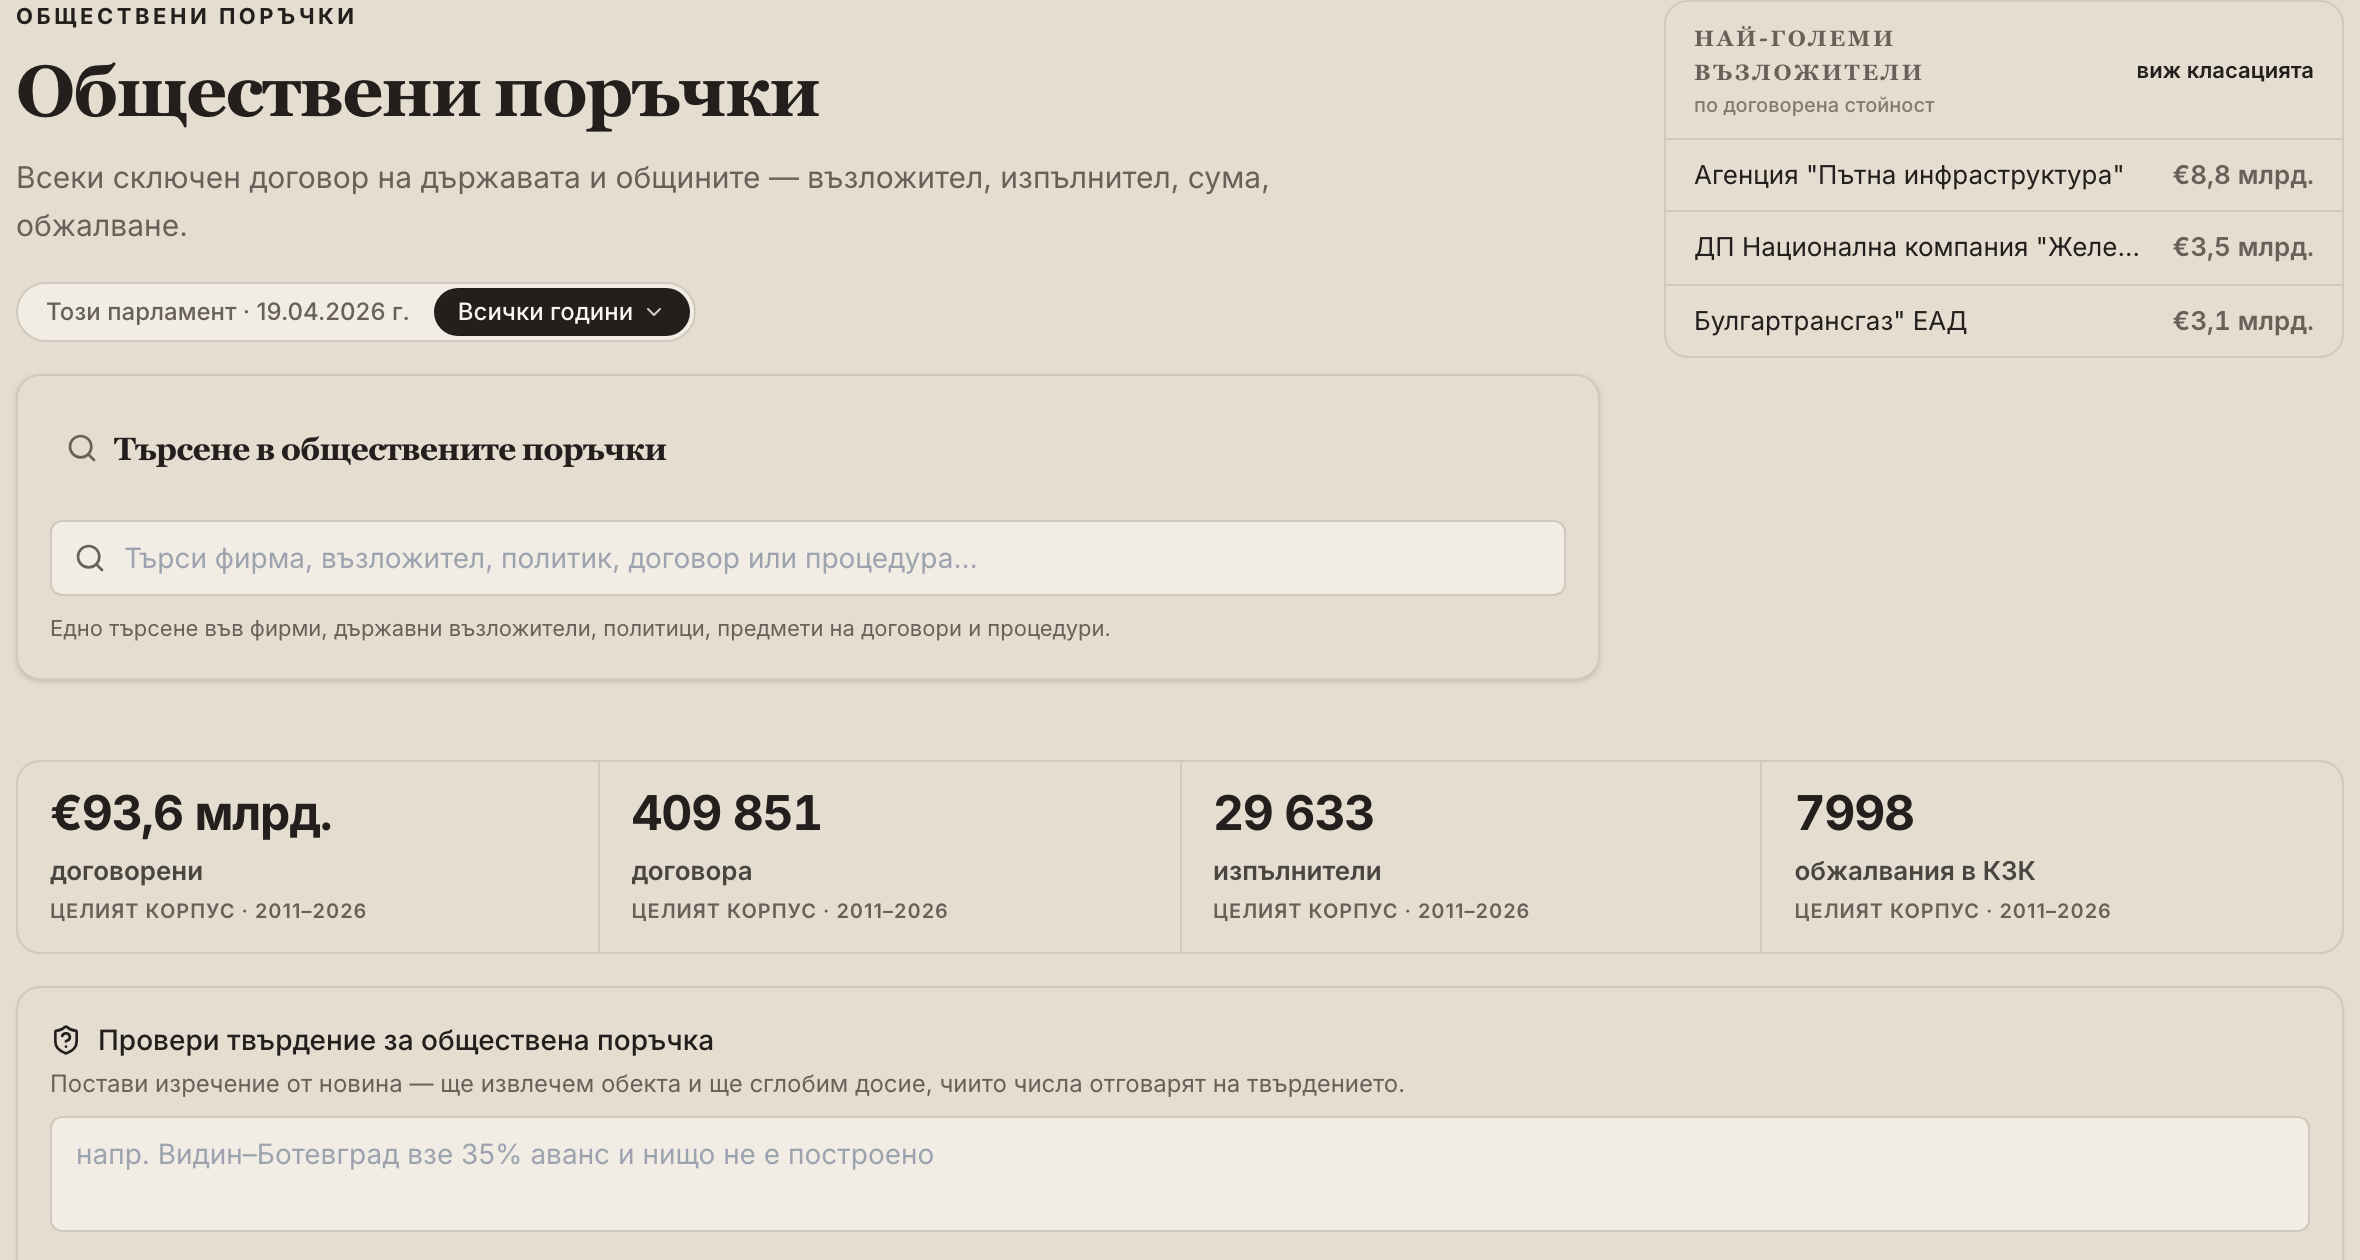
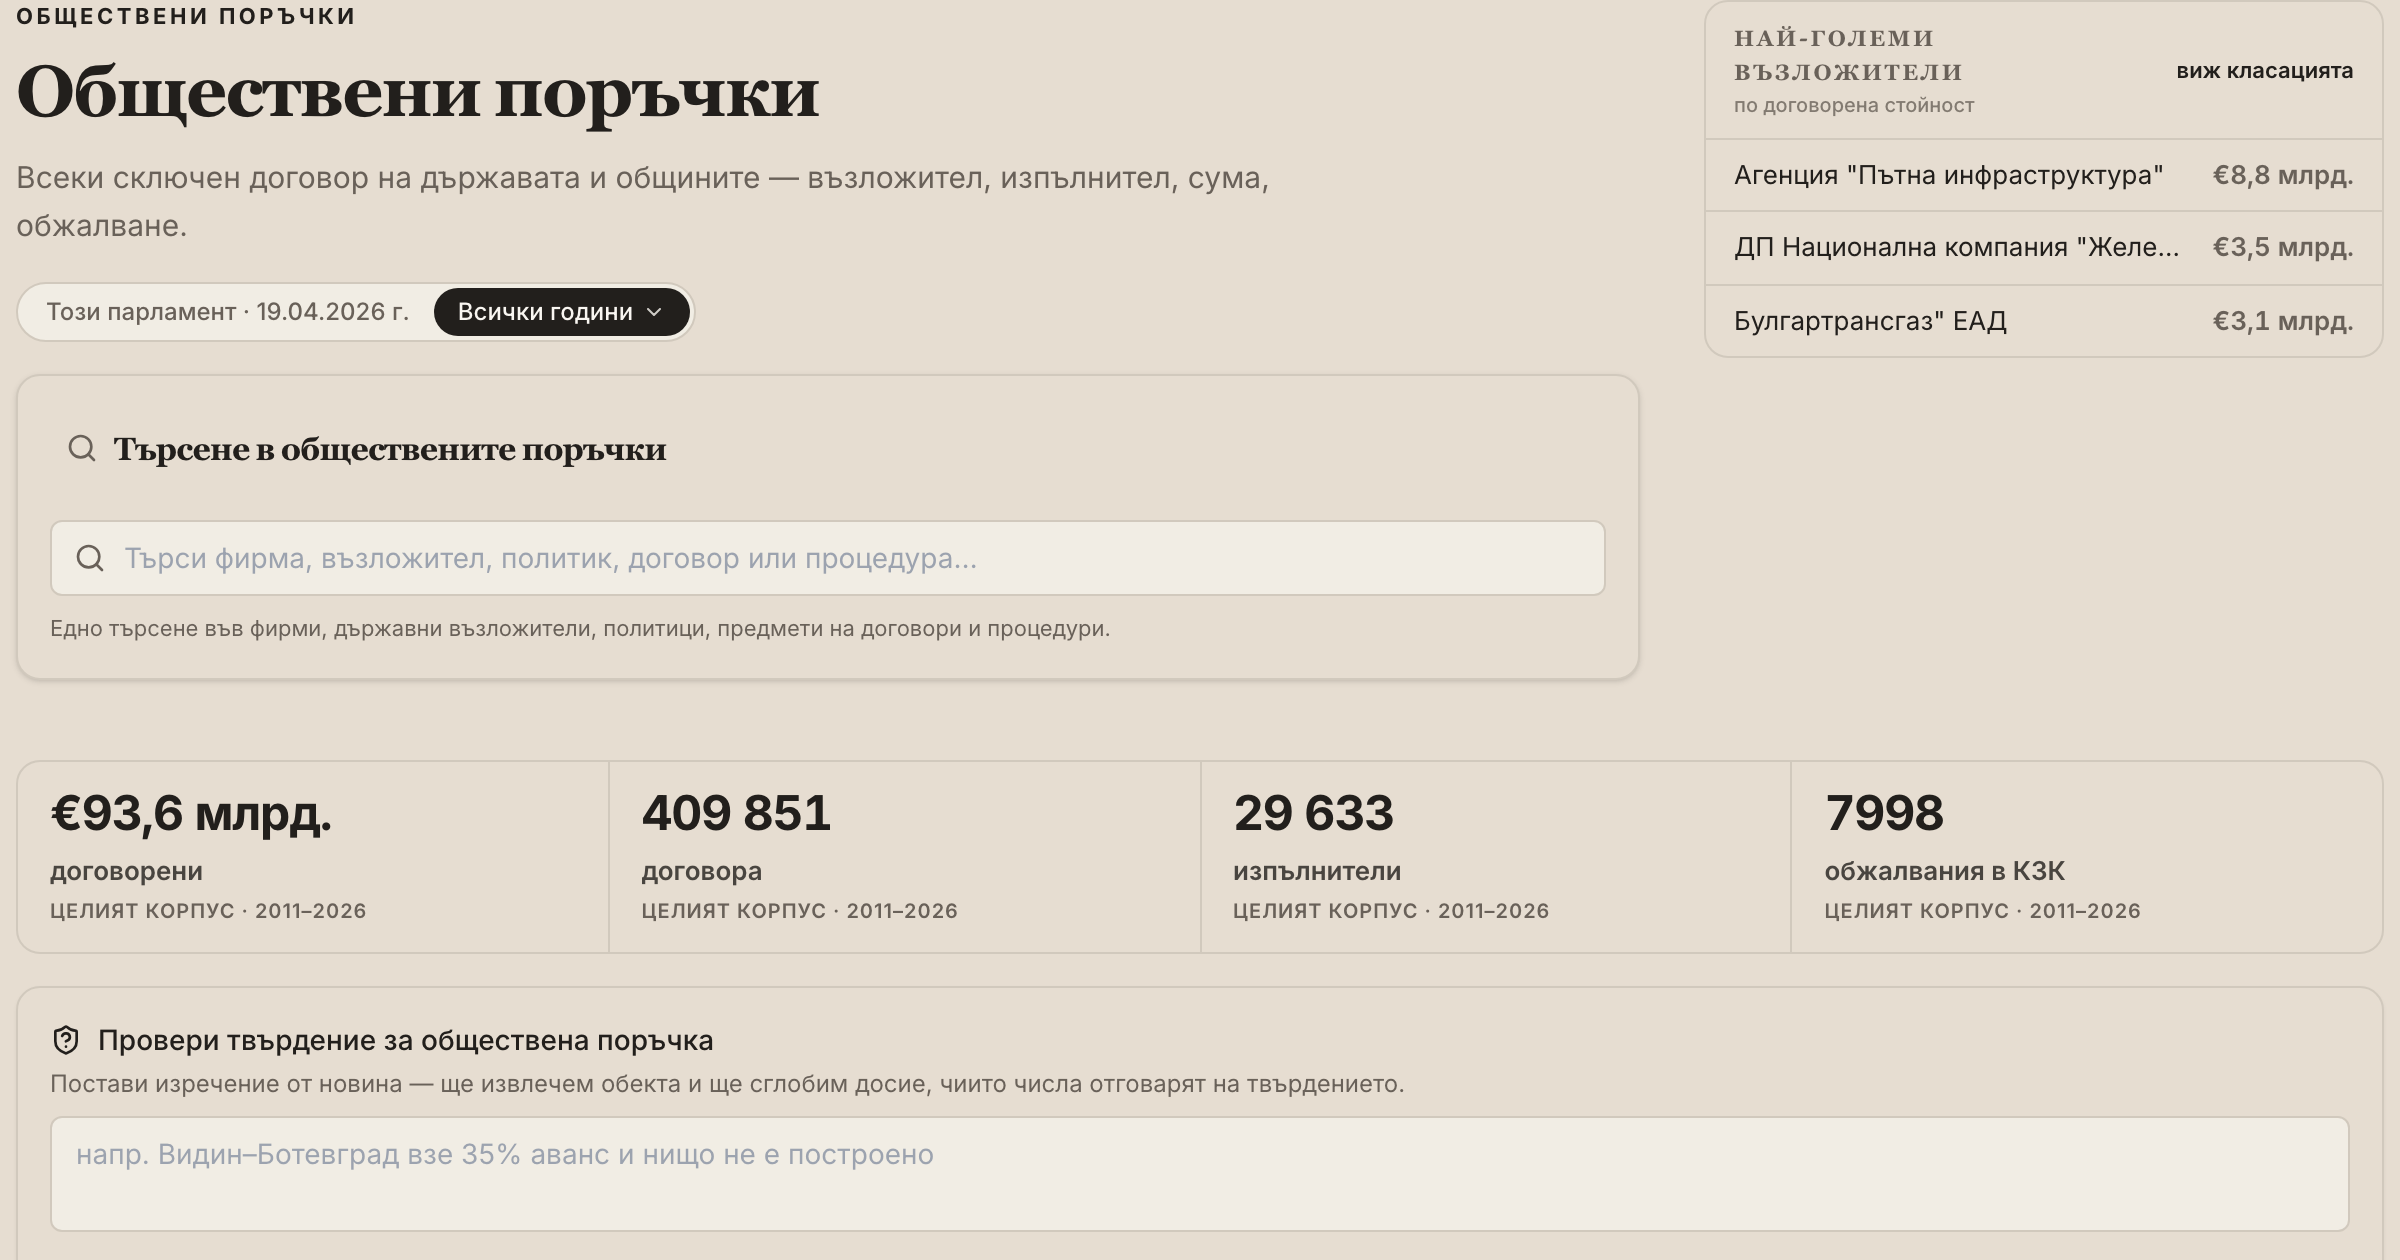
parliament step 3 repair: the card gate could not see governance, and clipped three cards short

diff --git a/scripts/prerender/ogAndSitemapCoverage.test.ts b/scripts/prerender/ogAndSitemapCoverage.test.ts
@@ -27,6 +27,7 @@
 import { describe, expect, it } from "vitest";
 import fs from "node:fs";
 import { execSync } from "node:child_process";
+import { stripJsxComments } from "../../src/ux/infographic/stripJsxComments";
 import path from "node:path";
 import { fileURLToPath } from "node:url";
 import { prerenderRoutes } from "./routes";
@@ -811,13 +812,33 @@ describe("every prerendered page is in the committed sitemap", () => {
 //
 // Measured 2026-08-25: /parliament's card was captured on 14 August, anchored on the tile-grid
 // wrapper, and showed a session strip and three tile fronts with NO NUMBER ON IT — a share
-// card for a roll-call module that published no figure. Nothing failed, because
-// `tests/seo.spec.ts` only asserts the og:image URL is absolute.
+// card for a roll-call module that published no figure. /procurement's and /governance's were
+// the same shape. Nothing failed, because `tests/seo.spec.ts` only asserts the og:image URL is
+// absolute.
 describe("a hub's og capture anchors on its head", () => {
-  const CAPTURES = read("scripts/og/capture-screens.ts");
+  const CAPTURES = stripJsxComments(read("scripts/og/capture-screens.ts"));
 
-  /** Hubs whose card does NOT yet frame the head, with the reason. Each is a real debt, not a
-   *  decision — they are listed so the gate stays green while naming what is owed, and so the
+  /** Every module front page that renders a `HubHead`, and the screen that renders it.
+   *
+   *  ⚠ BOTH HALVES ARE ASSERTED, and the first draft of this gate asserted neither usefully:
+   *  it grepped for HubHead screens, DISCARDED the result, and looped over a hard-coded pair
+   *  — so it checked two slugs, and reverting /governance's anchor passed it. A gate that
+   *  cannot see its subject is this file's own recurring failure.
+   *
+   *  A plain grep cannot replace this map, either: it returns a comment-only match and
+   *  `ContractsBrowserDbScreen`, which is a genuine HubHead on a SUB-PAGE and has no hub card.
+   *  So the map is explicit and the clauses below make it impossible to leave stale. */
+  const HUB_CAPTURES: Record<string, string> = {
+    parliament: "src/screens/ParliamentHubScreen.tsx",
+    procurement: "src/screens/ProcurementScreen.tsx",
+    governance: "src/screens/GovernanceScreen.tsx",
+    funds: "src/screens/FundsScreen.tsx",
+  };
+
+  /** HubHead call sites that are NOT module front pages, so they ship no hub card. */
+  const SUB_PAGE_HEADS = ["src/screens/dev/ContractsBrowserDbScreen.tsx"];
+
+  /** Hubs whose card does not yet frame the head, with the reason. A real debt, named so the
    *  list shrinks rather than the rule. */
   const NOT_YET: Record<string, string> = {
     funds:
@@ -825,50 +846,81 @@ describe("a hub's og capture anchors on its head", () => {
       "needs moving into capture-screens.ts before it can anchor on anything",
   };
 
-  it("every hub with a HubHead frames it, or is named as owing one", () => {
-    // The hubs are DERIVED — a screen that renders HubHead is a hub, so a new one joins this
-    // gate the day it is written rather than when somebody remembers to list it.
-    const screens = execSync("grep -rl 'HubHead' src/screens --include=*.tsx", {
-      encoding: "utf8",
-    })
-      .trim()
-      .split("\n")
-      .filter(Boolean);
-    expect(screens.length, "no screen renders HubHead").toBeGreaterThan(2);
+  /** One capture entry's text, by slug. */
+  const entryFor = (slug: string): string | null => {
+    const at = CAPTURES.indexOf(`slug: "${slug}"`);
+    if (at === -1) return null;
+    const next = CAPTURES.indexOf('slug: "', at + `slug: "${slug}"`.length);
+    return CAPTURES.slice(at, next === -1 ? undefined : next);
+  };
 
-    // slug ← the capture entry whose routePath is the hub's own path.
-    const anchored = [...CAPTURES.matchAll(/slug:\s*"([^"]+)"/g)].map(
-      (m) => m[1],
-    );
-    expect(anchored.length, "no capture slugs found").toBeGreaterThan(10);
-
+  it("every hub's capture frames its head", () => {
+    const checked: string[] = [];
     const offenders: string[] = [];
-    for (const slug of ["parliament", "procurement", ...Object.keys(NOT_YET)]) {
+    for (const slug of Object.keys(HUB_CAPTURES)) {
       if (NOT_YET[slug]) continue;
-      const at = CAPTURES.indexOf(`slug: "${slug}"`);
-      if (at === -1) {
+      const entry = entryFor(slug);
+      if (!entry) {
         offenders.push(`${slug}: no capture entry`);
         continue;
       }
-      // The entry runs to the next `slug:` or the end.
-      const next = CAPTURES.indexOf('slug: "', at + 10);
-      const entry = CAPTURES.slice(at, next === -1 ? undefined : next);
       if (!/anchor:\s*"\[data-hub-head\]"/.test(entry))
         offenders.push(`${slug}: anchors on something other than the head`);
+      checked.push(slug);
     }
+    // Non-vacuity: if the exemption list ever swallowed the map this would check nothing.
+    expect(checked.length, "no hub card was checked").toBeGreaterThan(1);
     expect(
       offenders,
       `hub cards not framing their head: ${offenders.join("; ")}`,
     ).toEqual([]);
   });
 
-  it("the exemption list names only real hubs, so it cannot go stale", () => {
-    for (const slug of Object.keys(NOT_YET)) {
-      const screen = `src/screens/${slug === "governance" ? "GovernanceScreen" : "FundsScreen"}.tsx`;
+  it("a hub's capture clips at OG_CLIP_VIEWPORT, so the card is not silently shrunk", () => {
+    // Playwright CLAMPS the clip to the viewport, so a width below OG_W (1200) emits a
+    // smaller card with nothing failing — measured, a hand-picked 1180 gave 2360×1260 where
+    // the corpus norm is 2400, and two of these three had been 2400 the day before.
+    for (const slug of Object.keys(HUB_CAPTURES)) {
+      if (NOT_YET[slug]) continue;
+      const entry = entryFor(slug) ?? "";
       expect(
-        read(screen).includes("HubHead"),
-        `${slug} is exempted but no longer renders a HubHead — drop the entry`,
+        /viewport:\s*OG_CLIP_VIEWPORT/.test(entry),
+        `${slug}: uses a hand-written viewport instead of OG_CLIP_VIEWPORT`,
       ).toBe(true);
+    }
+  });
+
+  it("the map names every HubHead screen, so a new hub cannot slip past", () => {
+    const screens = execSync("grep -rl 'HubHead' src/screens --include=*.tsx", {
+      encoding: "utf8",
+    })
+      .trim()
+      .split("\n")
+      .filter(Boolean)
+      // A screen that only MENTIONS HubHead in prose is not a call site.
+      .filter((f) => /<HubHead\b/.test(stripJsxComments(read(f))));
+    expect(screens.length, "no screen renders HubHead").toBeGreaterThan(2);
+
+    const known = new Set([...Object.values(HUB_CAPTURES), ...SUB_PAGE_HEADS]);
+    const unlisted = screens.filter((f) => !known.has(f));
+    expect(
+      unlisted,
+      `these render a HubHead but are in neither HUB_CAPTURES nor SUB_PAGE_HEADS — decide ` +
+        `which, so the card gate can see them: ${unlisted.join(", ")}`,
+    ).toEqual([]);
+  });
+
+  it("every mapped screen still renders a head, and every exemption still earns it", () => {
+    for (const [slug, file] of Object.entries(HUB_CAPTURES))
+      expect(
+        /<HubHead\b/.test(stripJsxComments(read(file))),
+        `${slug} is mapped to ${file}, which no longer renders a HubHead`,
+      ).toBe(true);
+    for (const slug of Object.keys(NOT_YET)) {
+      expect(
+        HUB_CAPTURES,
+        `${slug} is exempted but is not a hub — drop the entry`,
+      ).toHaveProperty(slug);
       expect(NOT_YET[slug].length, `${slug} needs a reason`).toBeGreaterThan(
         20,
       );

diff --git a/scripts/og/capture-screens.ts b/scripts/og/capture-screens.ts
@@ -306,11 +306,10 @@ const captures: Capture[] = [
     // skeleton, which is the failure `waitFor` exists to prevent.
     waitFor: "[data-hub-head] .tabular-nums",
     anchor: "[data-hub-head]",
-    // Below `xl`, so the explore band is three full-width tiles rather than four
-    // that the 1200px clip would cut through. §9.4 of the plan exists because the
-    // previous card was a crop taken mid-card; reproducing that with a different
-    // tile would have missed the point.
-    viewport: { width: 1180, height: 1100 },
+    // OG_CLIP_VIEWPORT — see the sibling entries: a width below OG_W (1200) makes Playwright
+    // clamp the clip and quietly emit a 2360-wide card where the corpus norm is 2400. The
+    // head is narrower than the clip either way, so nothing is cut.
+    viewport: OG_CLIP_VIEWPORT,
     settleMs: 3000,
   },
   {
@@ -331,12 +330,16 @@ const captures: Capture[] = [
     // waiting on the wrapper shoots a skeleton.
     waitFor: "[data-hub-head] .tabular-nums",
     anchor: "[data-hub-head]",
-    // BELOW 1280, so the content column fits inside the 1200 clip. A head spans the full
-    // column — identity plus the evidence aside — so at the default viewport a CENTRED clip
-    // shaves both edges: measured, /governance came back reading „правление" and „29,6 млрд."
-    // with the ranked list's figures cut off at „409 8". /parliament's entry already carried
-    // a narrow viewport, which is the only reason its card was whole.
-    viewport: { width: 1180, height: 1100 },
+    // OG_CLIP_VIEWPORT, the constant that exists for exactly this. A head spans the full
+    // content column — identity plus the evidence aside — so at the default 1280 a CENTRED
+    // 1200 clip shaves both edges: measured, /governance came back reading „правление" and
+    // „29,6 млрд." with the ranked list cut off at „409 8".
+    //
+    // ⚠ NOT a hand-picked 1180. Playwright CLAMPS the clip to the viewport, so any width
+    // below OG_W (1200) silently shrinks the card — measured, 1180 produced 2360×1260 cards
+    // against the corpus norm of 2400, and procurement and governance had both been 2400
+    // before this entry was touched.
+    viewport: OG_CLIP_VIEWPORT,
     settleMs: 3000,
   },
   {
@@ -1053,12 +1056,16 @@ const captures: Capture[] = [
     // waiting on the wrapper shoots a skeleton.
     waitFor: "[data-hub-head] .tabular-nums",
     anchor: "[data-hub-head]",
-    // BELOW 1280, so the content column fits inside the 1200 clip. A head spans the full
-    // column — identity plus the evidence aside — so at the default viewport a CENTRED clip
-    // shaves both edges: measured, /governance came back reading „правление" and „29,6 млрд."
-    // with the ranked list's figures cut off at „409 8". /parliament's entry already carried
-    // a narrow viewport, which is the only reason its card was whole.
-    viewport: { width: 1180, height: 1100 },
+    // OG_CLIP_VIEWPORT, the constant that exists for exactly this. A head spans the full
+    // content column — identity plus the evidence aside — so at the default 1280 a CENTRED
+    // 1200 clip shaves both edges: measured, /governance came back reading „правление" and
+    // „29,6 млрд." with the ranked list cut off at „409 8".
+    //
+    // ⚠ NOT a hand-picked 1180. Playwright CLAMPS the clip to the viewport, so any width
+    // below OG_W (1200) silently shrinks the card — measured, 1180 produced 2360×1260 cards
+    // against the corpus norm of 2400, and procurement and governance had both been 2400
+    // before this entry was touched.
+    viewport: OG_CLIP_VIEWPORT,
     settleMs: 2500,
   },
   {
